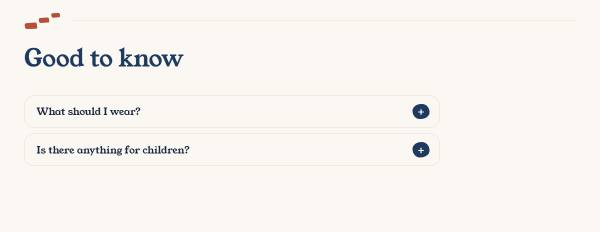
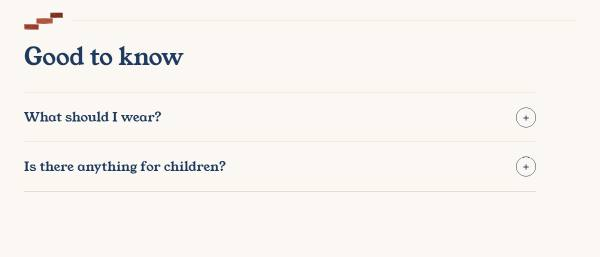
Docs and accordion thumbnail for the hppres.org wayfinding

diff --git a/CLAUDE.md b/CLAUDE.md
@@ -10,7 +10,7 @@ Always-loaded rules for this repo, the website for First Baptist Church of Aubur
 
 Companion tactical runbook: `OPERATIONS.md`. Setup followed the starter's `docs/bootstrap/NEW-PROJECT.md`; `docs/bootstrap/setup-checklist.md` is its sign-off. `PORTS.md` is a copy of the starter's registry of shared improvements (see Ports below).
 
-Design context: `PRODUCT.md` (brief Part A) and `DESIGN.md` (brand tokens and rules) were written from the settled brand on 2026-10-17. References are in `docs/references/`; the pick (A blended with B and C) is recorded in `docs/design-directions/2026-10-17-fbc-auburn/`. The reskin's first pass (palette, fonts, brick-letter headings via `StoneHeading.astro` (`scripts/lib/brick-letters.mjs`, 2026-10-21), the arched hero `ArchHero.astro`, brand layer `src/styles/auburn.css`) is in; the rest of the mockups is queued in `docs/PENDING.md` 1c. Home is "board E" (2026-10-17): `src/components/home/HomeBoard.astro` draws the Home page layout in its own grammar (styles `src/styles/home-board.css`); its tiles and markers are generated by `npm run gen:stones`. Home opens on a photo hero (2026-10-23, `HomeHero.astro`): the hero block's background photo with the welcome over it in white and the This Sunday card beside it. Pre-launch, `src/components/ForJacob.astro` shows a "For Jacob" notes pill per page (`src/data/for-jacob.ts`) and highlights "[Jacob: ...]" and "[Placeholder: ...]" text yellow; every photo slot holding a stand-in shows a "Photo needed" shot request instead (`ShotRequest.astro`, list in `src/data/shot-list.ts`, 2026-10-24), drawn over a stock example of the shot (`public/shot-examples/`); set `PRE_LAUNCH_NOTES` to false at launch. The inner pages follow E's grammar too (2026-10-17): `BoardPageHead.astro` replaces the arch, `BoardRule.astro` opens each section, styles `src/styles/board.css` (also applied to sections an editor adds to Home below the board, 2026-10-24). Sizes, corners and spacing come from one scale at the top of `src/styles/auburn.css` (2026-10-24, `docs/agent/design-tokens.md`). Pictures take Auburn's shapes (2026-10-24, `src/styles/shapes.css`, `docs/agent/shapes.md`): card photos a stepped brick corner, ImageText photos the building's gable over a navy brick slab; Ministries is the "Find your place" hub (`findYourPlaceSection`, groups of cards beside a sticky index). Every page moves as it scrolls through the flow layer (2026-10-24, `src/scripts/flow.ts`, `src/styles/flow.css`): headings rise line by line, the rest fades up, photos drift, the footer verse slides with the scroll, pages lift and rise between clicks, and the brick titles, sill and markers are laid brick by brick; it picks its own units, so new sections need nothing (`docs/agent/animation.md`, "The flow layer").
+Design context: `PRODUCT.md` (brief Part A) and `DESIGN.md` (brand tokens and rules) were written from the settled brand on 2026-10-17. References are in `docs/references/`; the pick (A blended with B and C) is recorded in `docs/design-directions/2026-10-17-fbc-auburn/`. The reskin's first pass (palette, fonts, brick-letter headings via `StoneHeading.astro` (`scripts/lib/brick-letters.mjs`, 2026-10-21), the arched hero `ArchHero.astro`, brand layer `src/styles/auburn.css`) is in; the rest of the mockups is queued in `docs/PENDING.md` 1c. Home is "board E" (2026-10-17): `src/components/home/HomeBoard.astro` draws the Home page layout in its own grammar (styles `src/styles/home-board.css`); its tiles and markers are generated by `npm run gen:stones`. Home opens on a photo hero (2026-10-23, `HomeHero.astro`): the hero block's background photo with the welcome over it in white and the This Sunday card beside it. Pre-launch, `src/components/ForJacob.astro` shows a "For Jacob" notes pill per page (`src/data/for-jacob.ts`) and highlights "[Jacob: ...]" and "[Placeholder: ...]" text yellow; every photo slot holding a stand-in shows a "Photo needed" shot request instead (`ShotRequest.astro`, list in `src/data/shot-list.ts`, 2026-10-24), drawn over a stock example of the shot (`public/shot-examples/`); set `PRE_LAUNCH_NOTES` to false at launch. The inner pages follow E's grammar too (2026-10-17): `BoardPageHead.astro` replaces the arch, `BoardRule.astro` opens each section, styles `src/styles/board.css` (also applied to sections an editor adds to Home below the board, 2026-10-24). Sizes, corners and spacing come from one scale at the top of `src/styles/auburn.css` (2026-10-24, `docs/agent/design-tokens.md`). Pictures take Auburn's shapes (2026-10-24, `src/styles/shapes.css`, `docs/agent/shapes.md`): card photos a stepped brick corner, ImageText photos the building's gable over a navy brick slab; Ministries is the "Find your place" hub (`findYourPlaceSection`, groups of cards beside a sticky index). Wayfinding from the same audit: "where next" rows in the footer, two-tone titles (`headingAccent`), the Sunday times band (`heroSection.showTimes`), a letter block, the full-screen phone menu. Every page moves as it scrolls through the flow layer (2026-10-24, `src/scripts/flow.ts`, `src/styles/flow.css`): headings rise line by line, the rest fades up, photos drift, the footer verse slides with the scroll, pages lift and rise between clicks, and the brick titles, sill and markers are laid brick by brick; it picks its own units, so new sections need nothing (`docs/agent/animation.md`, "The flow layer").
 
 ## What this is
 

diff --git a/docs/agent/shapes.md b/docs/agent/shapes.md
@@ -69,3 +69,30 @@ same `object-position` (centre, 30% down) so heads line up along a row. A person
 `.shape-tile` with the mark (`src/assets/brand/mark-print.png`), so a grid never breaks. The name is Young Serif, the
 role small caps grey. Two portraits a row on a phone (below 40rem), auto-fill from 14rem above. The block's intro (the
 existing `intro` field) is the place for "what this role is"; it already sits under the heading, before the faces.
+
+## Wayfinding (the rest of the hppres.org audit, 2026-10-24)
+
+- **Where next** (`src/components/WhereNext.astro`, in the footer on every page): three full-width Young Serif rows with
+  long hairline arrows (Plan your visit, Find your place, Sermons, then About the church as the spare). The page you are
+  on drops out. Hover or focus sweeps brick red in from the left.
+- **Two-tone page titles**: the page head's "Accent word in the heading" (`headingAccent`, now on `heroSection` too, in
+  `HEADING_ACCENT_FIELDS`). StoneHeading draws those letters all auburn and the rest all navy instead of the
+  every-fourth-letter rhythm; a plain title takes the auburn colour. Ministries uses "your place", Plan your visit
+  "your visit".
+- **The Sunday times band** (`src/components/church/TimesBand.astro`): the page head's "Show the Sunday times band" box
+  (`heroSection.showTimes`). A pale panel across the bottom of an inner page head, from 30% in out to the window edge:
+  "Sundays at Auburn", each Sunday gathering (time big, what it is in small caps), the address and Directions, all from
+  Church facts, with the To confirm tag while unconfirmed. Under 64rem it is one bar that opens the map.
+- **Fold-out questions** (`accordionSection`, `src/styles/church-blocks.css`): hairline rows, the question in Young
+  Serif, a thin circled plus that fills red and turns to a minus when open, the answer in the right-hand column on a wide
+  screen. Plan your visit's "Good to know" uses it.
+- **A letter** (`letterSection`, `src/components/sections/LetterSection.astro`): greeting, the letter, sign-off,
+  signature picture or the name in Young Serif, role, optional button, on a sheet of warm paper with a brick-red top
+  edge and a slight turn (none with reduced motion). Leadership carries Pastor Jacob's.
+- **Last Sunday** (`WatchSection.astro`): the band's label ("Last Sunday" or "Latest message") huge in outline behind
+  it, half off its bottom edge, and the stepped corner on its media. Use the outline word no more than twice on the site.
+- **The phone menu** (`src/components/MobileNav.tsx`, styles in `src/styles/auburn.css`): a full-screen sheet of big
+  Young Serif rows with long arrows; a row with pages under it opens in place, filled red.
+- The content moved by `scripts/content/hppres-wayfinding.mjs` (dry by default): Plan your visit's band, accent, the
+  three question headings ("What about my kids?", "Where do I park?", "How will I find it?", which are also the shot
+  list keys) and Good to know; Ministries' accent; the Leadership letter; Watch's "what is not streamed" ask.

diff --git a/docs/PENDING.md b/docs/PENDING.md
@@ -16,13 +16,15 @@ sequence).
 
 ## Waiting on a human
 
-### 1zy. Find your place: move the live Ministries page onto the hub (opened 2026-10-24)
+### 1zy. The hppres.org wayfinding: Jacob's words and the last content move (opened 2026-10-24)
 
-The block ships in the deploy; the content does not move until it is live, or the Studio would show an unknown block.
-After the deploy is green: back up, dry run, then
-`NCS_PRODUCTION_WRITE=yes node scripts/content/ministries-find-your-place.mjs <backup-folder> --apply`, rebuild, and
-check /ministries/ at 1280, 375 and 320. Then, from Jacob: the ages and leaders on each card, whether he offers coffee
-with the pastor, which serving teams exist, and photos for the cards on the shot list.
+Ministries moved onto the Find your place hub on 2026-10-24 (backup in the session scratchpad, write verified). After
+the deploy of the wayfinding PR: back up, dry run, then
+`NCS_PRODUCTION_WRITE=yes node scripts/content/hppres-wayfinding.mjs <backup-folder> --apply`, rebuild, and check Plan
+your visit, Leadership, Watch and Ministries at 1280, 375 and 320. Then, from Jacob: the ages and leaders on each
+Ministries card, whether he offers coffee with the pastor, which serving teams exist, the Good to know answers
+(what to wear, access, directions from Hamilton, Fairfield and Oxford), what is not streamed, his own letter (and a
+signature photo if he likes), and photos for the cards on the shot list.
 
 ### 1zz. The standardising pass: port the shared fixes, and see Live preview signed in (opened 2026-10-24)
 

diff --git a/docs/claude/topic-index.md b/docs/claude/topic-index.md
@@ -33,7 +33,7 @@ Read these on demand. They are NOT auto-loaded, and they are referenced as plain
 | Studio plan (who edits, weekly jobs, which surface)                                                      | `docs/agent/studio-plan.md`                                          |
 | Hidden pages, password pages (security note), Checkup link and heading checks                            | `docs/agent/private-pages.md`                                        |
 | Church facts, This Sunday, This week, YouTube replay, weather (drop-in components)                       | `docs/agent/church-data.md`                                          |
-| Shape system (stepped corner, gable, brick slab) and the Find your place ministries hub                  | `docs/agent/shapes.md`                                               |
+| Shapes, Find your place, wayfinding (times band, where next, letter, phone menu)                         | `docs/agent/shapes.md`                                               |
 | Church Trac: forms, the page band, {token} links                                                         | `docs/agent/church-trac.md`                                          |
 | Editor-driven vs hardcoded                                                                               | `docs/agent/editor-vs-hardcoded.md`                                  |
 | Cross-repo shared improvements (port cards + applied-to matrix + drift check)                            | `PORTS.md`                                                           |

diff --git a/docs/agent/changelog.md b/docs/agent/changelog.md
@@ -1,5 +1,15 @@
 # Change history
 
+_2026-10-24: the rest of the hppres.org audit._
+
+**Decision.** Everything else worth taking from hppres.org, in Auburn's own shapes: "where next" rows at the top of the
+footer on every page; two-tone page titles (headingAccent on the page head, drawn in auburn brick); a Sunday times
+band under inner page heads (from Church facts, one bar on a phone); fold-out questions restyled as hairline rows; a
+letter block for the pastor; an outlined ghost word and the stepped corner on the Watch band; a full-screen phone menu
+of big serif rows; a new News and notes article layout (sticky rail, stepped cover); and stepped people portraits with a
+brick stand-in. Plan your visit is headed with the visitor's own questions. Ministries moved onto the Find your place
+hub in the live dataset the same day. Detail: `docs/agent/shapes.md`.
+
 _2026-10-24: the shape system and Find your place._
 
 **Decision.** From an audit of hppres.org: pictures take two Auburn shapes instead of rounded rectangles (a stepped brick
